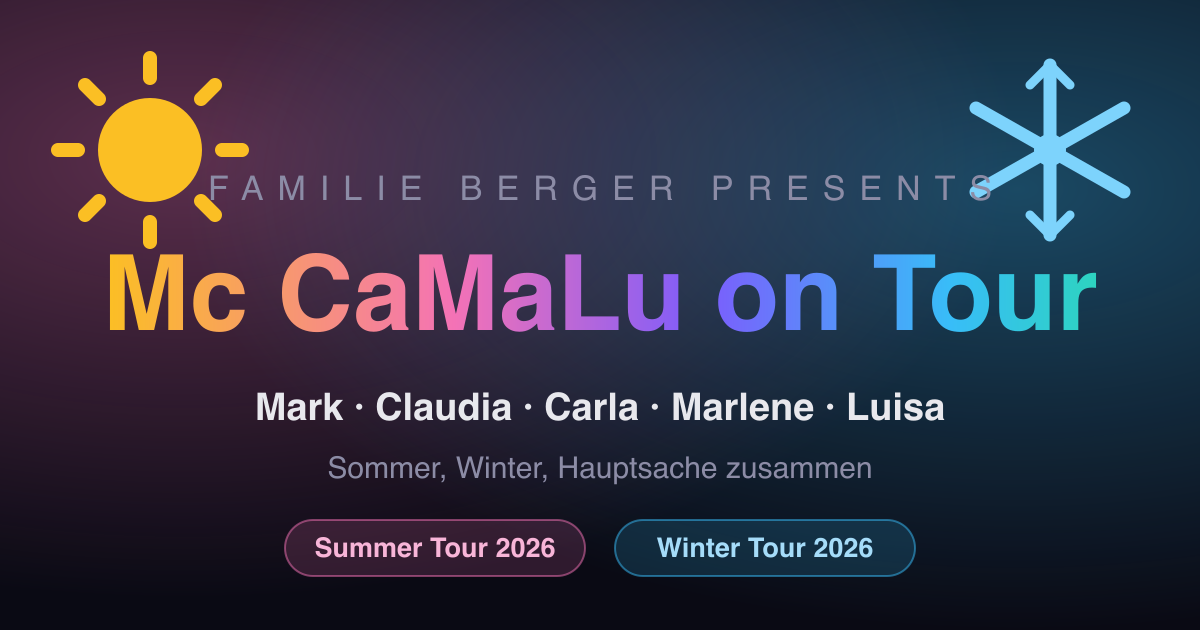
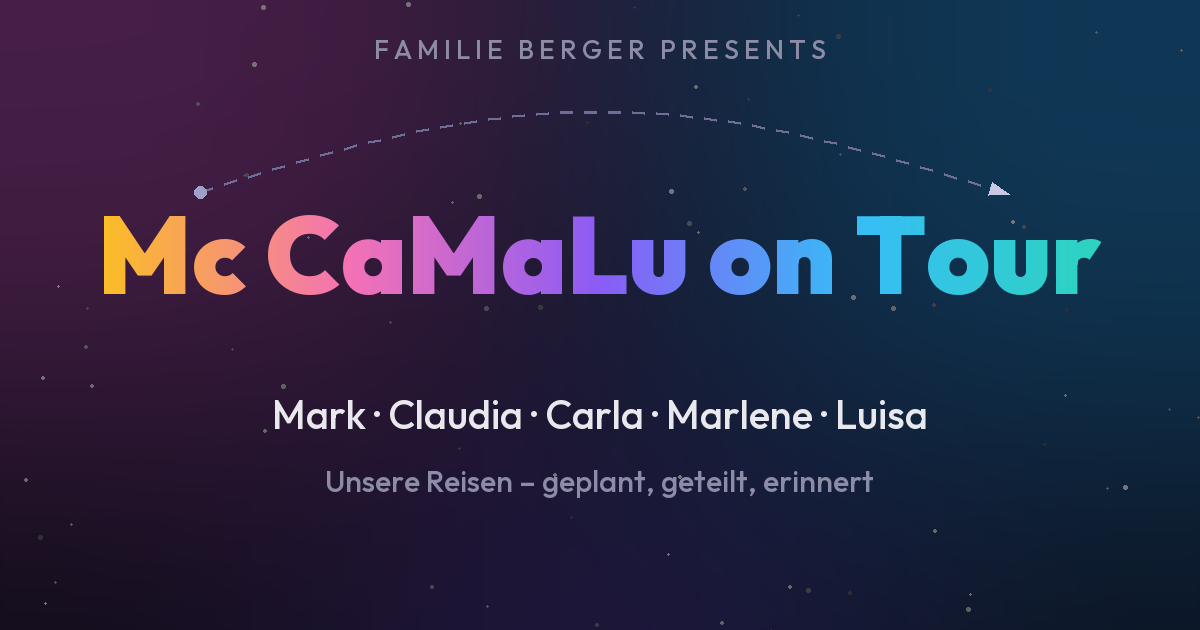
Hub: Past Travels mit eingefrorener Summer Tour; allgemeines Vorschaubild 'Mc CaMaLu on Tour'
- Sommer-Kachel nicht mehr auskommentiert, sondern als Archiv-Kachel unter Past Travels
- sommer/: body.archived = Banner 'Past Travels', Countdown/Formulare/Tagebuch-Eingabe
  ausgeblendet, Ratings/Checkboxen/Quests nicht mehr klickbar; alles bleibt lesbar
- og-image.png ohne Tour-Bezug, passt fuer jede kuenftige Reise

diff --git a/index.html b/index.html
@@ -16,9 +16,9 @@
 
     <!-- Open Graph / WhatsApp Preview -->
     <meta property="og:title" content="Mc CaMaLu on Tour">
-    <meta property="og:description" content="Die Reisen der Familie Berger &ndash; aktuell: Winter Tour 2026/27 (Kaunertal &amp; Allg&auml;u)">
+    <meta property="og:description" content="Die Reisen der Familie Berger &ndash; geplant, geteilt, erinnert. Aktuell: Winter Tour 2026/27">
     <meta property="og:url" content="https://cloudysgith.github.io/McCaMaLuOnTour/">
-    <meta property="og:image" content="https://cloudysgith.github.io/McCaMaLuOnTour/og-image.png">
+    <meta property="og:image" content="https://cloudysgith.github.io/McCaMaLuOnTour/og-image.png?v=2">
     <meta property="og:image:width" content="1200">
     <meta property="og:image:height" content="630">
     <meta property="og:type" content="website">
@@ -140,6 +140,49 @@
             grid-template-columns: minmax(0, 46rem);
             justify-content: center;
             align-content: center;
+        }
+
+        /* ===== PAST TRAVELS ===== */
+        .past {
+            width: 100%;
+            max-width: 46rem;
+            margin: 1rem auto 0;
+            padding: 0 1rem;
+        }
+        .past-title {
+            font-size: 1rem;
+            font-weight: 600;
+            letter-spacing: 0.12em;
+            text-transform: uppercase;
+            color: var(--text-dim);
+            text-align: center;
+            margin: 0 0 1rem;
+        }
+        .past-grid { display: grid; gap: 0.75rem; }
+        .past-tile {
+            display: flex;
+            align-items: center;
+            gap: 1rem;
+            padding: 1rem 1.25rem;
+            border-radius: 18px;
+            border: 1px solid rgba(255,255,255,0.08);
+            background: rgba(255,255,255,0.03);
+            color: var(--text);
+            text-decoration: none;
+            filter: saturate(0.6);
+            opacity: 0.85;
+            transition: opacity 0.2s, filter 0.2s, transform 0.2s;
+        }
+        .past-tile:hover { opacity: 1; filter: none; transform: translateY(-2px); }
+        .past-emoji { font-size: 2rem; }
+        .past-info { flex: 1; min-width: 0; }
+        .past-info h3 { margin: 0.1rem 0; font-size: 1.1rem; }
+        .past-season, .past-route, .past-dates { margin: 0; font-size: 0.85rem; color: var(--text-dim); }
+        .past-summer .past-season { color: #f9a8d4; }
+        .past-cta { font-size: 0.85rem; font-weight: 600; white-space: nowrap; color: #f9a8d4; }
+        @media (max-width: 600px) {
+            .past-tile { flex-wrap: wrap; }
+            .past-cta { width: 100%; text-align: right; }
         }
 
         /* Nur auf schmalen Handy-Screens untereinander */
@@ -347,35 +390,7 @@
 </header>
 
 <main class="tiles tiles-single">
-    <!-- ===================================================================
-         SOMMER-KACHEL AUSGEBLENDET (21.08.2026)
-         Die Summer Tour 2026 ist gelaufen - die Kachel ist nur versteckt,
-         NICHT geloescht. Der Ordner sommer/ bleibt vollstaendig erhalten und
-         ist weiterhin direkt erreichbar unter .../McCaMaLuOnTour/sommer/
-
-         WIEDER EINBLENDEN: diesen Kommentar-Block entfernen (die Zeile
-         darueber und die Zeile mit ENDE darunter) und bei <main> die Klasse
-         "tiles-single" wieder wegnehmen.
-    ==================================================================== -->
-    <!--
-    <a class="tile tile-summer" href="sommer/">
-        <div class="tile-deco">
-            <span style="top:12%; right:10%; font-size:2.2rem; animation-delay:-1s;">&#x2600;&#xFE0F;</span>
-            <span style="top:34%; left:8%; font-size:1.6rem; animation-delay:-3s;">&#x1F3D6;&#xFE0F;</span>
-            <span style="top:20%; left:38%; font-size:1.3rem; animation-delay:-4.5s;">&#x1F30A;</span>
-        </div>
-        <div class="tile-emoji">&#x1F334;</div>
-        <p class="tile-season">Sommer 2026</p>
-        <h2>Berger <em>Summer Tour</em></h2>
-        <p class="tile-route">Bangkok &rarr; Bordeaux &rarr; &Icirc;le d'Ol&eacute;ron &rarr; Beaune &rarr; Sindelfingen &rarr; Bonn &rarr; M&uuml;nchen &rarr; Passau &rarr; Leipzig &rarr; Bangkok</p>
-        <p class="tile-dates">20. Juni &ndash; 5. August 2026</p>
-        <div class="tile-footer">
-            <span class="tile-cta">Zur Summer Tour &rarr;</span>
-            <span class="tile-countdown" id="cdSummer"></span>
-        </div>
-    </a>
-    -->
-    <!-- ENDE ausgeblendete Sommer-Kachel -->
+    <!-- AKTUELLE REISEN: neue Touren hier als Kachel anlegen -->
 
     <!-- WINTER -->
     <a class="tile tile-winter" href="winter/">
@@ -395,6 +410,23 @@
         </div>
     </a>
 </main>
+
+<!-- PAST TRAVELS: abgeschlossene Reisen, eingefroren (body.archived auf der Tour-Seite) -->
+<section class="past">
+    <h2 class="past-title">&#x1F4E6; Past Travels</h2>
+    <div class="past-grid">
+        <a class="past-tile past-summer" href="sommer/">
+            <span class="past-emoji">&#x1F334;</span>
+            <div class="past-info">
+                <p class="past-season">Sommer 2026</p>
+                <h3>Berger Summer Tour</h3>
+                <p class="past-route">Bordeaux &middot; &Icirc;le d'Ol&eacute;ron &middot; Beaune &middot; Bonn &middot; M&uuml;nchen &middot; Passau &middot; Leipzig</p>
+                <p class="past-dates">20. Juni &ndash; 5. August 2026</p>
+            </div>
+            <span class="past-cta">Erinnerungen &rarr;</span>
+        </a>
+    </div>
+</section>
 
 <footer class="hub-footer">
     Made with &#x2764;&#xFE0F; for the best trips ever &ndash; Familie Berger
@@ -451,7 +483,6 @@
 <script>
 (function() {
     const tours = [
-        { el: document.getElementById('cdSummer'), start: new Date('2026-06-20T06:40:00+07:00'), end: new Date('2026-08-05T23:59:59+02:00'), live: 'JETZT unterwegs! \u{1F334}', done: 'War das schön! ❤' },
         { el: document.getElementById('cdWinter'), start: new Date('2026-12-19T22:10:00+07:00'), end: new Date('2027-01-09T23:59:59+07:00'), live: 'JETZT unterwegs! ⛄', done: 'War das schön! ❤' }
     ];
 

diff --git a/sommer/index.html b/sommer/index.html
@@ -25,7 +25,7 @@
     <link rel="preconnect" href="https://fonts.googleapis.com">
     <link rel="preconnect" href="https://fonts.gstatic.com" crossorigin>
     <link href="https://fonts.googleapis.com/css2?family=Outfit:wght@300;400;500;600;700;800;900&family=Space+Grotesk:wght@400;500;600;700&display=swap" rel="stylesheet">
-    <link rel="stylesheet" href="style.css?v=20260625e">
+    <link rel="stylesheet" href="style.css?v=20261007a">
     <link rel="stylesheet" href="https://unpkg.com/leaflet@1.9.4/dist/leaflet.css"/>
     <script src="https://unpkg.com/leaflet@1.9.4/dist/leaflet.js"></script>
 
@@ -74,7 +74,7 @@
         });
     </script>
 </head>
-<body>
+<body class="archived">
 
 <!-- PASSWORD SCREEN -->
 <div class="lock-screen" id="lockScreen">
@@ -99,7 +99,13 @@
         <p class="hero-sub">Bangkok &rarr; Bordeaux &rarr; Ile d'Oleron &rarr; Beaune &rarr; Sindelfingen &rarr; Mannheim &rarr; Bonn &rarr; M&uuml;nchen &rarr; Passau &rarr; Sindelfingen &rarr; Mannheim &rarr; Leipzig &rarr; Ingolstadt &rarr; Bangkok</p>
         <p class="hero-dates">20. Juni &ndash; 5. August 2026</p>
         <div class="countdown" id="countdown"></div>
-        <a href="#timeline" class="scroll-btn">Los geht's &darr;</a>
+        <!-- ARCHIV: Reise abgeschlossen. Zum Auftauen: class="archived" am <body> entfernen. -->
+        <div class="archive-banner">
+            <span class="archive-badge">&#x1F4E6; Past Travels</span>
+            <p>Diese Reise ist abgeschlossen und eingefroren &ndash; alles bleibt zum Nachlesen und Erinnern da.</p>
+            <a href="../" class="archive-home">&larr; Zur Startseite</a>
+        </div>
+        <a href="#timeline" class="scroll-btn">Zur&uuml;ckblicken &darr;</a>
     </div>
 </section>
 

diff --git a/sommer/style.css b/sommer/style.css
@@ -2756,3 +2756,38 @@ body.locked {
 ::-webkit-scrollbar-thumb:hover {
     background: var(--accent);
 }
+
+
+/* ===== ARCHIV-MODUS (Past Travels) =====
+   Reise ist vorbei: alles bleibt sichtbar, aber nichts ist mehr editierbar.
+   Aktiv solange <body class="archived"> gesetzt ist. */
+.archive-banner {
+    margin: 1.5rem auto 0;
+    max-width: 34rem;
+    padding: 1rem 1.25rem;
+    border-radius: 16px;
+    border: 1px solid rgba(255,255,255,0.12);
+    background: rgba(255,255,255,0.05);
+    text-align: center;
+}
+.archive-banner p { margin: 0.5rem 0; color: var(--text-dim); font-size: 0.95rem; }
+.archive-badge {
+    display: inline-block;
+    padding: 0.25rem 0.75rem;
+    border-radius: 999px;
+    background: rgba(255,255,255,0.08);
+    font-weight: 600;
+    letter-spacing: 0.05em;
+}
+.archive-home { font-weight: 600; }
+body:not(.archived) .archive-banner { display: none; }
+
+body.archived #countdown,
+body.archived #expenseForm,
+body.archived .expense-edit,
+body.archived .expense-del,
+body.archived .diary-write { display: none !important; }
+
+body.archived .star,
+body.archived .quest-member,
+body.archived input[type="checkbox"] { pointer-events: none; }
